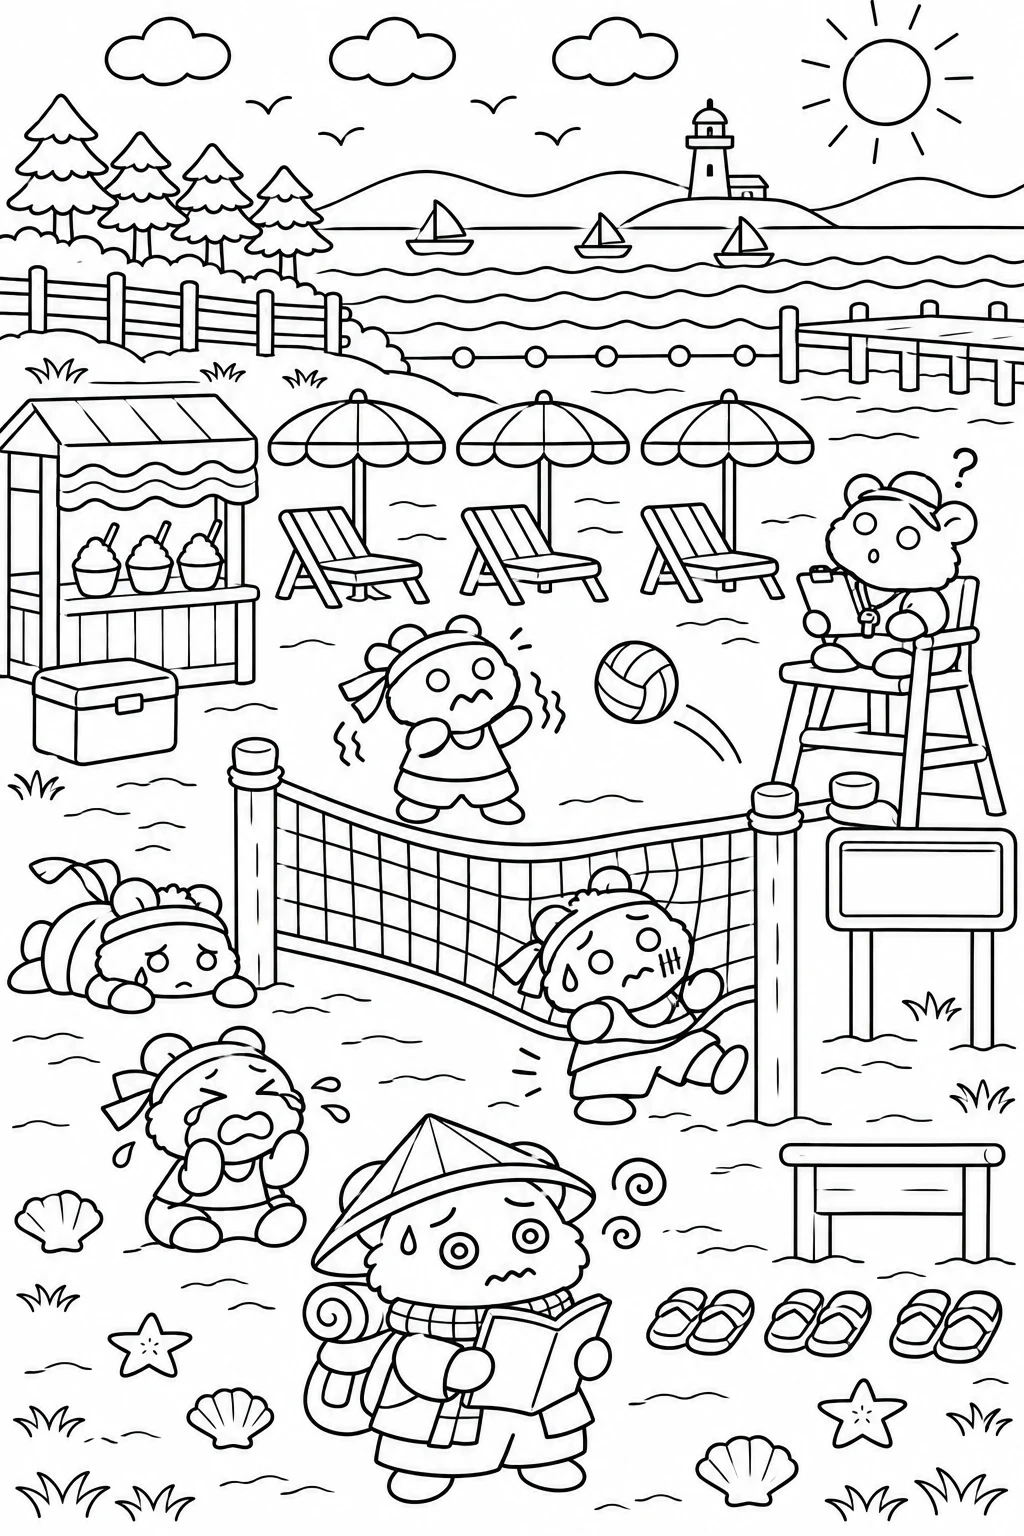
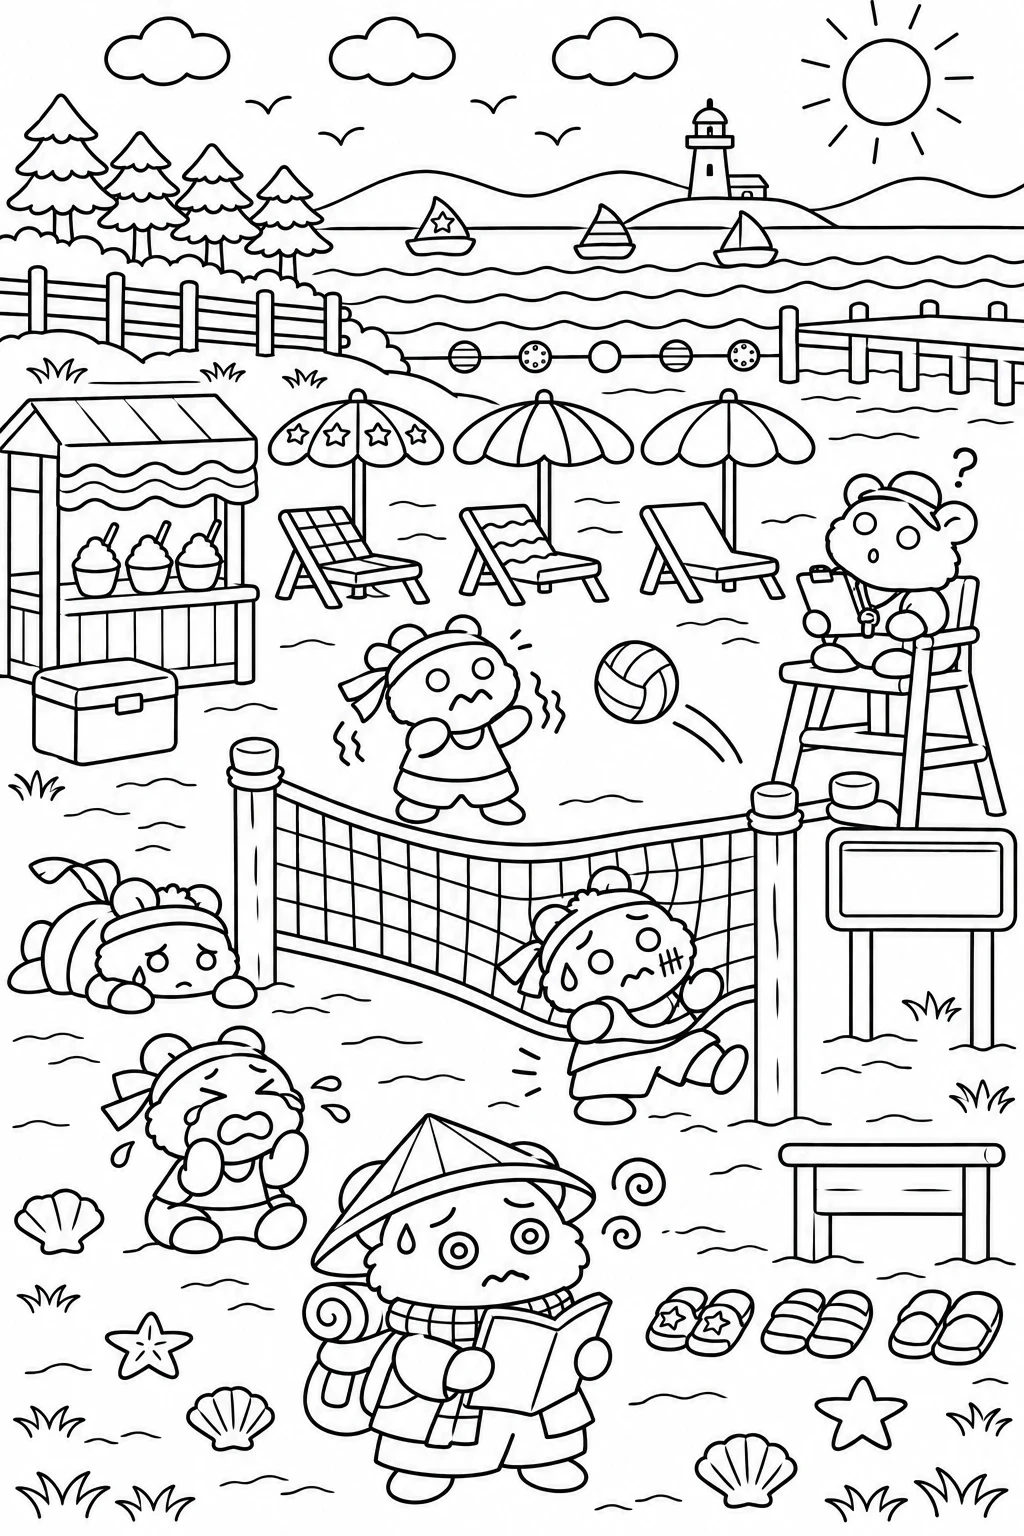
Add random per-object pattern variation generator; update beach page
Claude-Session: https://claude.ai/code/session_01NtbvEdzR1nxo1XkVFvAmPr

diff --git a/coloring-book/ai_workflow/make_variation.py b/coloring-book/ai_workflow/make_variation.py
@@ -1,0 +1,172 @@
+#!/usr/bin/env python3
+"""Bốc ngẫu nhiên họa tiết cho từng món đồ lặp lại trong mỗi cảnh, in ra khối prompt để dán.
+
+Chạy:
+  python3 ai_workflow/make_variation.py              # ghi PATTERN_VARIATION.md cho mọi cảnh
+  python3 ai_workflow/make_variation.py beach 7      # in khối của một cảnh với seed 7 (đổi seed để bốc lại)
+
+Mỗi nhóm đồ giống nhau: số lượng ngẫu nhiên (theo khoảng), mỗi món một họa tiết từ bộ họa tiết hợp chủ đề
+hoặc để trống (plain). Luôn có ít nhất một món trơn và ít nhất hai họa tiết khác nhau.
+"""
+from __future__ import annotations
+
+import random
+import sys
+from pathlib import Path
+
+HERE = Path(__file__).resolve().parent
+
+# họa tiết mô tả bằng nét viền đơn, to, ít chi tiết
+MOTIFS = {
+    "star": "one big five-pointed star outline",
+    "starfish": "one small starfish outline",
+    "shell": "one scallop shell outline",
+    "wave": "two wide wave lines",
+    "stripes": "three wide stripes",
+    "dots": "three large round dots",
+    "heart": "one big heart outline",
+    "flower": "one simple five-petal flower outline",
+    "leaf": "one big leaf outline",
+    "fish": "one simple fish outline",
+    "moon": "one crescent moon outline",
+    "sun": "one round sun outline with a few short rays",
+    "cloud": "one small cloud outline",
+    "bolt": "one big zigzag bolt outline",
+    "gear": "one simple gear outline",
+    "note": "one big music note outline",
+    "bamboo": "one bamboo stalk outline",
+    "checks": "four large squares in a checker pattern",
+    "rings": "two big concentric rings",
+    "coconut": "one coconut palm tree outline",
+    "fan": "one small folding fan outline",
+    "key": "one big key outline",
+    "paw": "one paw print outline (one round pad and four round toes)",
+}
+
+# nhóm đồ: (tên, số lượng tối thiểu, tối đa, danh sách họa tiết ứng viên)
+SCENES = {
+    "beach": ("Cảnh 4: Bóng chuyền bãi biển", [
+        ("beach umbrellas", 2, 4, ["star", "starfish", "shell", "stripes", "wave"]),
+        ("deck chairs", 2, 4, ["checks", "wave", "stripes", "dots"]),
+        ("pairs of sandals", 2, 4, ["star", "stripes", "dots", "shell"]),
+        ("round buoys", 3, 5, ["stripes", "dots", "star", "wave"]),
+        ("coconuts in a basket", 3, 5, ["leaf", "star", "dots", "wave"]),
+        ("sail boats (the sails)", 2, 4, ["star", "stripes", "wave", "heart"]),
+        ("seashells on the sand", 3, 5, ["wave", "dots", "stripes"]),
+        ("shaved ice cups", 2, 4, ["star", "heart", "dots", "fish"]),
+    ]),
+    "magic": ("Cảnh 5: Quảng trường phép thuật", [
+        ("potted plants", 3, 5, ["flower", "leaf", "star", "dots"]),
+        ("street lamps", 2, 4, ["star", "moon", "stripes"]),
+        ("shop awnings", 2, 4, ["wave", "stripes", "dots", "star"]),
+        ("paint pots", 3, 5, ["dots", "star", "stripes", "heart"]),
+        ("baskets of scrolls", 2, 4, ["star", "stripes", "checks"]),
+        ("drawn floating objects (kites)", 2, 4, ["star", "heart", "stripes", "moon"]),
+        ("paving stones near the fountain", 3, 5, ["star", "rings", "dots", "leaf"]),
+        ("bushes", 3, 5, ["flower", "dots", "heart"]),
+    ]),
+    "cooking": ("Cảnh 6: Thi nấu ăn", [
+        ("ramen bowls", 3, 5, ["fish", "star", "stripes", "dots", "wave"]),
+        ("noodle pots", 2, 4, ["star", "checks", "stripes", "heart"]),
+        ("hanging lanterns (paper)", 3, 5, ["star", "stripes", "fan", "dots"]),
+        ("cutting boards", 2, 4, ["fish", "leaf", "stripes"]),
+        ("cooking stools", 3, 5, ["star", "dots", "wave"]),
+        ("aprons on hooks", 2, 4, ["checks", "stripes", "heart", "dots"]),
+        ("sacks of rice", 2, 4, ["star", "stripes", "dots"]),
+        ("fish on the drying rack", 3, 5, ["dots", "stripes", "wave"]),
+    ]),
+    "robot": ("Cảnh 7: Xưởng robot", [
+        ("small robots on the shelf", 3, 5, ["gear", "star", "bolt", "heart", "dots"]),
+        ("gears on the wall", 3, 5, ["star", "dots", "rings"]),
+        ("tool boxes", 2, 4, ["bolt", "stripes", "checks"]),
+        ("hanging lamps", 3, 5, ["star", "stripes", "dots"]),
+        ("storage drawers", 3, 5, ["gear", "dots", "stripes", "key"]),
+        ("crates", 2, 4, ["stripes", "checks", "star"]),
+        ("potted plants", 2, 4, ["leaf", "flower", "dots"]),
+        ("floor tiles near the door", 3, 5, ["star", "rings", "dots"]),
+    ]),
+    "detective": ("Cảnh 8: Phố đêm trinh thám", [
+        ("street lamps", 3, 5, ["moon", "star", "stripes", "dots"]),
+        ("lantern signs (blank)", 3, 5, ["star", "fan", "stripes", "dots"]),
+        ("bicycles parked in a row", 2, 4, ["stripes", "dots", "star"]),
+        ("windows on the shops", 3, 5, ["moon", "cloud", "checks", "stripes"]),
+        ("garbage cans", 2, 4, ["stripes", "dots", "star"]),
+        ("paving stones", 3, 5, ["star", "rings", "dots"]),
+        ("curtains", 2, 4, ["wave", "stripes", "dots", "star"]),
+        ("potted plants", 3, 5, ["leaf", "flower", "dots"]),
+    ]),
+    "music": ("Cảnh 9: Sân khấu lễ hội mùa hè", [
+        ("drums on the stage", 2, 4, ["note", "star", "stripes", "dots"]),
+        ("paper lanterns", 3, 5, ["star", "stripes", "fan", "dots"]),
+        ("speakers", 2, 4, ["rings", "note", "dots"]),
+        ("floor cushions for the audience", 3, 5, ["star", "stripes", "dots", "flower"]),
+        ("festival stalls (awnings)", 2, 4, ["wave", "stripes", "star", "fish"]),
+        ("music stands", 2, 4, ["note", "star", "stripes"]),
+        ("fans on a rack", 3, 5, ["flower", "stripes", "star", "dots"]),
+        ("potted plants", 2, 4, ["leaf", "flower", "dots"]),
+    ]),
+    "camp": ("Cảnh 10: Cắm trại bên hồ núi", [
+        ("tents", 2, 4, ["star", "moon", "stripes", "dots", "leaf"]),
+        ("camp chairs", 2, 4, ["checks", "stripes", "dots", "star"]),
+        ("sleeping bags", 2, 4, ["stripes", "star", "dots", "heart"]),
+        ("lanterns", 3, 5, ["star", "moon", "stripes", "dots"]),
+        ("logs around the fire", 3, 5, ["rings", "dots", "stripes"]),
+        ("pine trees", 3, 5, ["star", "dots", "stripes"]),
+        ("backpacks", 2, 4, ["paw", "star", "stripes", "dots"]),
+        ("stones around the fire", 3, 5, ["dots", "star", "rings"]),
+    ]),
+}
+
+
+def assign(rng, count, pool):
+    """Bốc họa tiết cho `count` món; ít nhất một món trơn và ít nhất hai họa tiết khác nhau."""
+    need = 2 if count >= 3 else 1          # nhóm 2 món: một trơn + một có họa tiết
+    for _ in range(1000):
+        items = [rng.choice(pool + ["plain", "plain"]) for _ in range(count)]
+        distinct = {x for x in items if x != "plain"}
+        if "plain" in items and len(distinct) >= need:
+            return items
+    items = ["plain"] + rng.sample(pool, min(count - 1, len(pool)))   # dự phòng, không bao giờ treo
+    return items + ["plain"] * (count - len(items))
+
+
+def block(key, seed):
+    title, groups = SCENES[key]
+    rng = random.Random(f"{key}-{seed}")
+    lines = [
+        "REPEATED OBJECTS WITH RANDOM SMALL PATTERN VARIATIONS: for each group below, draw exactly the stated number of objects, "
+        "all with the SAME shape and SAME size within the group, but each with the decoration listed (PLAIN means no decoration at all). "
+        "Draw each decoration as a simple single-line closed outline with open space inside, never dense texture, no gray, no solid black. "
+        "Do not decorate any hamster's face. Do not add other patterns."
+    ]
+    for name, lo, hi, pool in groups:
+        n = rng.randint(lo, hi)
+        items = assign(rng, n, pool)
+        parts = []
+        for i, m in enumerate(items, 1):
+            parts.append(f"{i}) " + ("PLAIN" if m == "plain" else MOTIFS[m]))
+        lines.append(f"- {name} ({n}): " + "; ".join(parts) + ".")
+    return title, "\n".join(lines)
+
+
+def main():
+    if len(sys.argv) >= 2 and sys.argv[1] in SCENES:
+        seed = sys.argv[2] if len(sys.argv) > 2 else "1"
+        title, b = block(sys.argv[1], seed)
+        print(title)
+        print(b)
+        return 0
+    out = ["# Khối họa tiết ngẫu nhiên cho đồ lặp lại (mỗi cảnh một khối)\n",
+           "Mỗi khối do chương trình bốc ngẫu nhiên: số lượng mỗi nhóm khác nhau, mỗi món một họa tiết hợp chủ đề hoặc trơn. "
+           "Muốn bốc lại: `python3 ai_workflow/make_variation.py <cảnh> <seed>` (cảnh: beach, magic, cooking, robot, detective, music, camp).\n",
+           "Dán khối vào cuối phần Background của prompt cảnh tương ứng.\n"]
+    for key in SCENES:
+        title, b = block(key, "1")
+        out.append(f"## {title}\n\n```\n{b}\n```\n")
+    (HERE / "PATTERN_VARIATION.md").write_text("\n".join(out), encoding="utf-8")
+    print("OK ->", HERE / "PATTERN_VARIATION.md")
+    return 0
+
+
+if __name__ == "__main__":
+    sys.exit(main())

diff --git a/coloring-book/ai_workflow/PATTERN_VARIATION.md b/coloring-book/ai_workflow/PATTERN_VARIATION.md
@@ -1,7 +1,103 @@
-# Khối dán: đồ lặp lại có họa tiết đổi nhẹ
+# Khối họa tiết ngẫu nhiên cho đồ lặp lại (mỗi cảnh một khối)
 
-Dán khối này vào cuối phần Background của mọi prompt (cùng với khối EMOTIONS). Quy tắc: cùng một hình dáng và cỡ, chỉ đổi họa tiết bên trong, theo thứ tự SAO, SỌC, TRƠN rồi lặp lại.
+Mỗi khối do chương trình bốc ngẫu nhiên: số lượng mỗi nhóm khác nhau, mỗi món một họa tiết hợp chủ đề hoặc trơn. Muốn bốc lại: `python3 ai_workflow/make_variation.py <cảnh> <seed>` (cảnh: beach, magic, cooking, robot, detective, music, camp).
+
+Dán khối vào cuối phần Background của prompt cảnh tương ứng.
+
+## Cảnh 4: Bóng chuyền bãi biển
 
 ```
-REPEATED OBJECTS WITH SMALL PATTERN VARIATIONS: every group of identical objects (umbrellas, sandals, lanterns, cushions, flags-free banners, bowls, pots, windows, stepping stones, fence panels, tiles, cups, drums, books, bags) keeps the SAME shape and SAME size, but gets a simple decoration in this repeating order: first one with a big star outline, second one with wide stripes, third one PLAIN, then repeat the order. Use only these three patterns plus plain; do not invent new patterns. Draw patterns as simple single-line closed shapes with open space inside (a few large stars, 3 to 5 wide stripes, or a few large dots), never dense texture, no gray, no solid black. Do not add the patterns to hamsters' faces.
+REPEATED OBJECTS WITH RANDOM SMALL PATTERN VARIATIONS: for each group below, draw exactly the stated number of objects, all with the SAME shape and SAME size within the group, but each with the decoration listed (PLAIN means no decoration at all). Draw each decoration as a simple single-line closed outline with open space inside, never dense texture, no gray, no solid black. Do not decorate any hamster's face. Do not add other patterns.
+- beach umbrellas (3): 1) two wide wave lines; 2) PLAIN; 3) one scallop shell outline.
+- deck chairs (2): 1) PLAIN; 2) two wide wave lines.
+- pairs of sandals (3): 1) one big five-pointed star outline; 2) PLAIN; 3) one scallop shell outline.
+- round buoys (3): 1) three wide stripes; 2) two wide wave lines; 3) PLAIN.
+- coconuts in a basket (3): 1) two wide wave lines; 2) PLAIN; 3) three large round dots.
+- sail boats (the sails) (4): 1) one big heart outline; 2) PLAIN; 3) one big five-pointed star outline; 4) two wide wave lines.
+- seashells on the sand (3): 1) two wide wave lines; 2) PLAIN; 3) three wide stripes.
+- shaved ice cups (3): 1) PLAIN; 2) one big five-pointed star outline; 3) one big heart outline.
+```
+
+## Cảnh 5: Quảng trường phép thuật
+
+```
+REPEATED OBJECTS WITH RANDOM SMALL PATTERN VARIATIONS: for each group below, draw exactly the stated number of objects, all with the SAME shape and SAME size within the group, but each with the decoration listed (PLAIN means no decoration at all). Draw each decoration as a simple single-line closed outline with open space inside, never dense texture, no gray, no solid black. Do not decorate any hamster's face. Do not add other patterns.
+- potted plants (3): 1) one big leaf outline; 2) one simple five-petal flower outline; 3) PLAIN.
+- street lamps (3): 1) three wide stripes; 2) one crescent moon outline; 3) PLAIN.
+- shop awnings (4): 1) three large round dots; 2) three wide stripes; 3) three wide stripes; 4) PLAIN.
+- paint pots (3): 1) three large round dots; 2) one big heart outline; 3) PLAIN.
+- baskets of scrolls (3): 1) PLAIN; 2) four large squares in a checker pattern; 3) three wide stripes.
+- drawn floating objects (kites) (4): 1) one big five-pointed star outline; 2) PLAIN; 3) one crescent moon outline; 4) PLAIN.
+- paving stones near the fountain (5): 1) one big leaf outline; 2) PLAIN; 3) two big concentric rings; 4) one big leaf outline; 5) three large round dots.
+- bushes (4): 1) PLAIN; 2) one simple five-petal flower outline; 3) three large round dots; 4) PLAIN.
+```
+
+## Cảnh 6: Thi nấu ăn
+
+```
+REPEATED OBJECTS WITH RANDOM SMALL PATTERN VARIATIONS: for each group below, draw exactly the stated number of objects, all with the SAME shape and SAME size within the group, but each with the decoration listed (PLAIN means no decoration at all). Draw each decoration as a simple single-line closed outline with open space inside, never dense texture, no gray, no solid black. Do not decorate any hamster's face. Do not add other patterns.
+- ramen bowls (5): 1) three large round dots; 2) one big five-pointed star outline; 3) three large round dots; 4) three wide stripes; 5) PLAIN.
+- noodle pots (3): 1) one big heart outline; 2) PLAIN; 3) four large squares in a checker pattern.
+- hanging lanterns (paper) (4): 1) three wide stripes; 2) three large round dots; 3) three wide stripes; 4) PLAIN.
+- cutting boards (2): 1) one big leaf outline; 2) PLAIN.
+- cooking stools (3): 1) PLAIN; 2) one big five-pointed star outline; 3) three large round dots.
+- aprons on hooks (4): 1) one big heart outline; 2) three wide stripes; 3) four large squares in a checker pattern; 4) PLAIN.
+- sacks of rice (4): 1) one big five-pointed star outline; 2) one big five-pointed star outline; 3) PLAIN; 4) three large round dots.
+- fish on the drying rack (3): 1) PLAIN; 2) three wide stripes; 3) two wide wave lines.
+```
+
+## Cảnh 7: Xưởng robot
+
+```
+REPEATED OBJECTS WITH RANDOM SMALL PATTERN VARIATIONS: for each group below, draw exactly the stated number of objects, all with the SAME shape and SAME size within the group, but each with the decoration listed (PLAIN means no decoration at all). Draw each decoration as a simple single-line closed outline with open space inside, never dense texture, no gray, no solid black. Do not decorate any hamster's face. Do not add other patterns.
+- small robots on the shelf (4): 1) three large round dots; 2) one big heart outline; 3) PLAIN; 4) PLAIN.
+- gears on the wall (4): 1) PLAIN; 2) three large round dots; 3) one big five-pointed star outline; 4) three large round dots.
+- tool boxes (3): 1) three wide stripes; 2) PLAIN; 3) four large squares in a checker pattern.
+- hanging lamps (3): 1) PLAIN; 2) three wide stripes; 3) three large round dots.
+- storage drawers (5): 1) PLAIN; 2) three wide stripes; 3) one big key outline; 4) PLAIN; 5) three large round dots.
+- crates (4): 1) three wide stripes; 2) PLAIN; 3) PLAIN; 4) one big five-pointed star outline.
+- potted plants (4): 1) one simple five-petal flower outline; 2) PLAIN; 3) one big leaf outline; 4) one big leaf outline.
+- floor tiles near the door (5): 1) three large round dots; 2) two big concentric rings; 3) three large round dots; 4) two big concentric rings; 5) PLAIN.
+```
+
+## Cảnh 8: Phố đêm trinh thám
+
+```
+REPEATED OBJECTS WITH RANDOM SMALL PATTERN VARIATIONS: for each group below, draw exactly the stated number of objects, all with the SAME shape and SAME size within the group, but each with the decoration listed (PLAIN means no decoration at all). Draw each decoration as a simple single-line closed outline with open space inside, never dense texture, no gray, no solid black. Do not decorate any hamster's face. Do not add other patterns.
+- street lamps (3): 1) one crescent moon outline; 2) PLAIN; 3) three wide stripes.
+- lantern signs (blank) (4): 1) one small folding fan outline; 2) PLAIN; 3) three wide stripes; 4) PLAIN.
+- bicycles parked in a row (4): 1) three wide stripes; 2) PLAIN; 3) three large round dots; 4) PLAIN.
+- windows on the shops (5): 1) one crescent moon outline; 2) PLAIN; 3) one crescent moon outline; 4) one crescent moon outline; 5) three wide stripes.
+- garbage cans (3): 1) one big five-pointed star outline; 2) PLAIN; 3) three wide stripes.
+- paving stones (5): 1) PLAIN; 2) one big five-pointed star outline; 3) PLAIN; 4) one big five-pointed star outline; 5) two big concentric rings.
+- curtains (4): 1) one big five-pointed star outline; 2) one big five-pointed star outline; 3) two wide wave lines; 4) PLAIN.
+- potted plants (5): 1) PLAIN; 2) PLAIN; 3) one simple five-petal flower outline; 4) PLAIN; 5) one big leaf outline.
+```
+
+## Cảnh 9: Sân khấu lễ hội mùa hè
+
+```
+REPEATED OBJECTS WITH RANDOM SMALL PATTERN VARIATIONS: for each group below, draw exactly the stated number of objects, all with the SAME shape and SAME size within the group, but each with the decoration listed (PLAIN means no decoration at all). Draw each decoration as a simple single-line closed outline with open space inside, never dense texture, no gray, no solid black. Do not decorate any hamster's face. Do not add other patterns.
+- drums on the stage (4): 1) three large round dots; 2) one big music note outline; 3) PLAIN; 4) three wide stripes.
+- paper lanterns (4): 1) one big five-pointed star outline; 2) one small folding fan outline; 3) three wide stripes; 4) PLAIN.
+- speakers (3): 1) three large round dots; 2) PLAIN; 3) two big concentric rings.
+- floor cushions for the audience (4): 1) PLAIN; 2) three wide stripes; 3) three wide stripes; 4) one big five-pointed star outline.
+- festival stalls (awnings) (4): 1) one big five-pointed star outline; 2) PLAIN; 3) three wide stripes; 4) three wide stripes.
+- music stands (4): 1) one big music note outline; 2) PLAIN; 3) PLAIN; 4) three wide stripes.
+- fans on a rack (3): 1) PLAIN; 2) three wide stripes; 3) one big five-pointed star outline.
+- potted plants (3): 1) one big leaf outline; 2) three large round dots; 3) PLAIN.
+```
+
+## Cảnh 10: Cắm trại bên hồ núi
+
+```
+REPEATED OBJECTS WITH RANDOM SMALL PATTERN VARIATIONS: for each group below, draw exactly the stated number of objects, all with the SAME shape and SAME size within the group, but each with the decoration listed (PLAIN means no decoration at all). Draw each decoration as a simple single-line closed outline with open space inside, never dense texture, no gray, no solid black. Do not decorate any hamster's face. Do not add other patterns.
+- tents (2): 1) one big five-pointed star outline; 2) PLAIN.
+- camp chairs (2): 1) PLAIN; 2) three wide stripes.
+- sleeping bags (3): 1) three large round dots; 2) one big heart outline; 3) PLAIN.
+- lanterns (5): 1) PLAIN; 2) one big five-pointed star outline; 3) three wide stripes; 4) PLAIN; 5) one big five-pointed star outline.
+- logs around the fire (4): 1) three large round dots; 2) two big concentric rings; 3) PLAIN; 4) three wide stripes.
+- pine trees (5): 1) PLAIN; 2) one big five-pointed star outline; 3) three wide stripes; 4) PLAIN; 5) PLAIN.
+- backpacks (2): 1) PLAIN; 2) three large round dots.
+- stones around the fire (4): 1) PLAIN; 2) three large round dots; 3) one big five-pointed star outline; 4) three large round dots.
 ```
